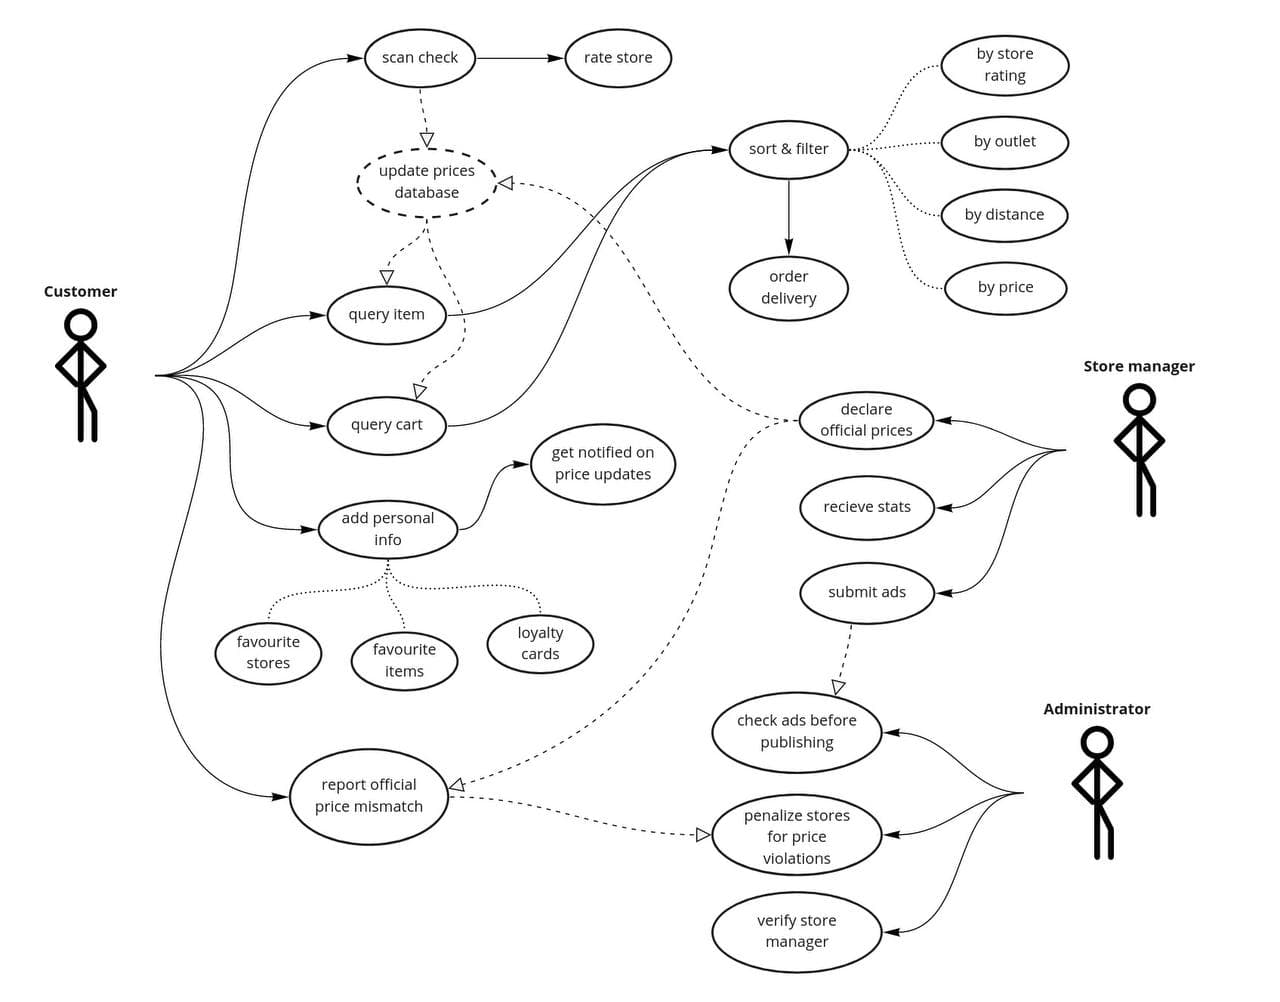
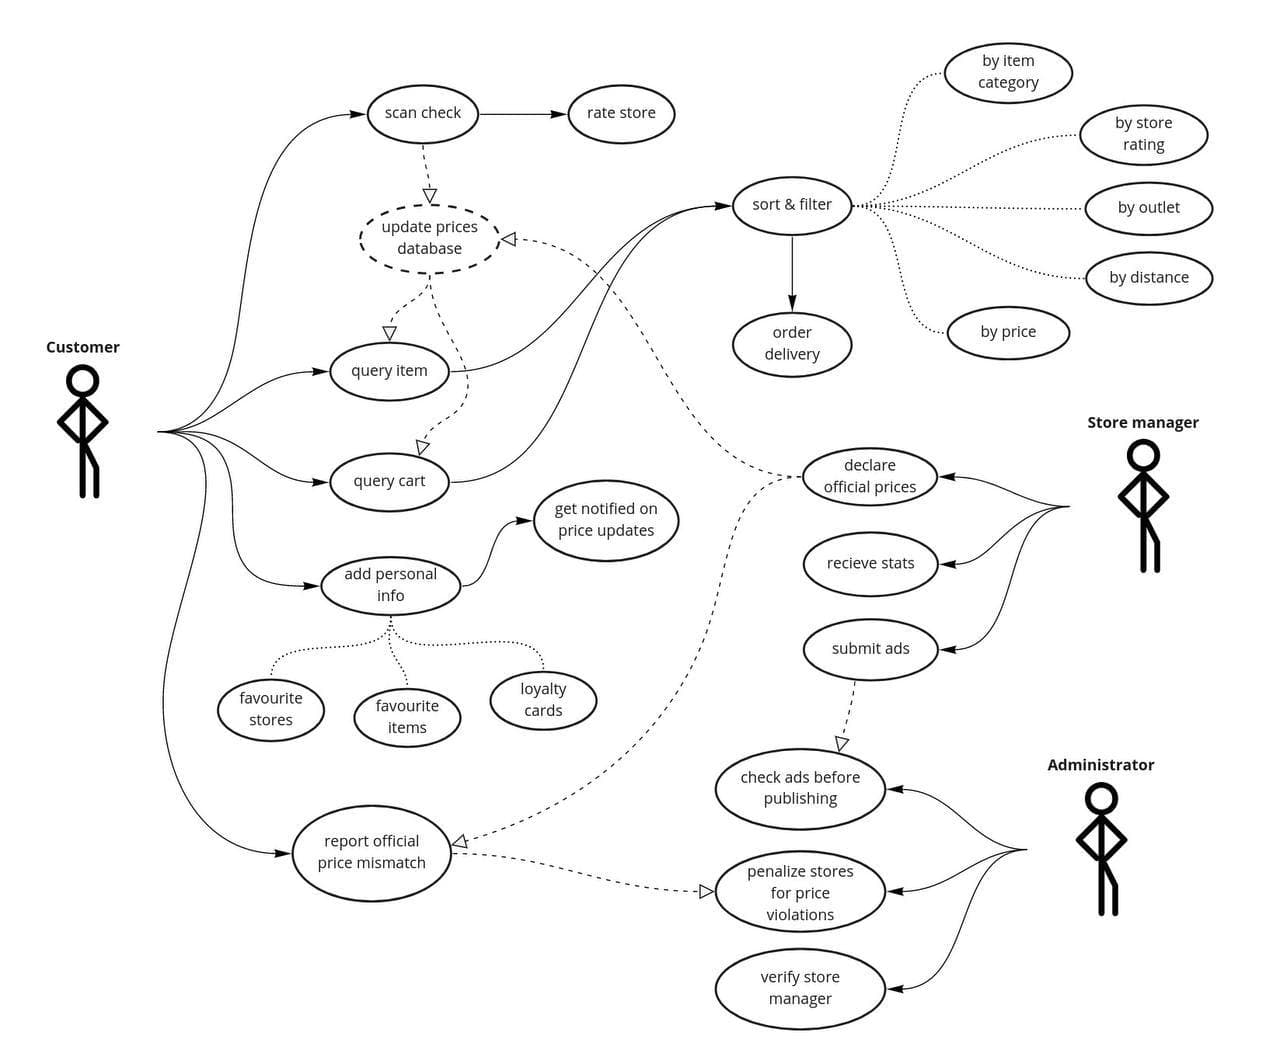
Add user roles to REQUIREMENTS.md and update the diagram

diff --git a/requirements/REQUIREMENTS.md b/requirements/REQUIREMENTS.md
@@ -1,6 +1,41 @@
 
 # Requirements
 
+## User roles
+### Customer
+1. can scan checks
+    * mark whether he used a loyalty card or other promotions
+
+2. can look at prices in our aggregator (in a variety of formats)
+    * find the lowest price for a product or for an entire cart of products
+    * filter or sort products by available parameters:
+        * item category
+        * store rating
+        * outlet
+        * distance
+        * price
+    * order a delivery using a third-party service
+
+3. can rate a store after scanning a check from it
+    * can report a store violating their official prices by scanning a check
+
+4. can upload information about themselves
+    * favorite products, stores
+    * loyalty card information
+
+6. can subscribe for updates of favorite stores and / or monitor favorite products
+
+### Store manager
+1. can load goods prices into app, including some special terms (loyalty card discounts, promotions, etc)
+    * each uploaded price has a validity period, during which the store is required to comply with it
+2. can get statistics of those users who scanned check in the store
+3. can purchase ads
+
+### Administrator
+1. verifies ads before publication
+2. can verify a store manager (i.e. create an account)
+3. can apply sanctions to the stores that provide wrong official prices
+
 ## User-case diagram
 
 ![user-case-diagram](USER_CASE_DIAGRAM.jpg)
